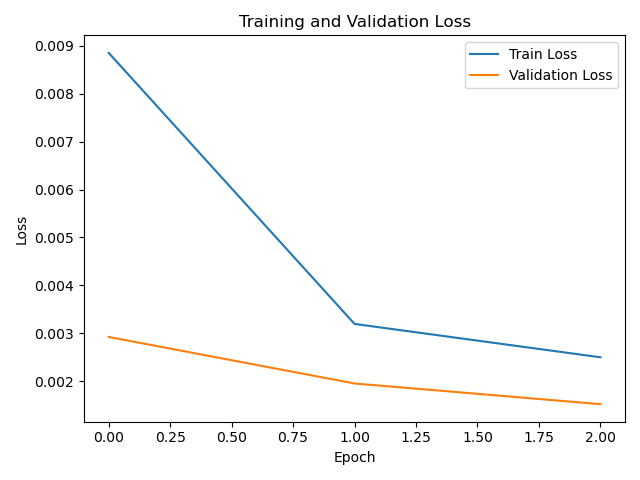
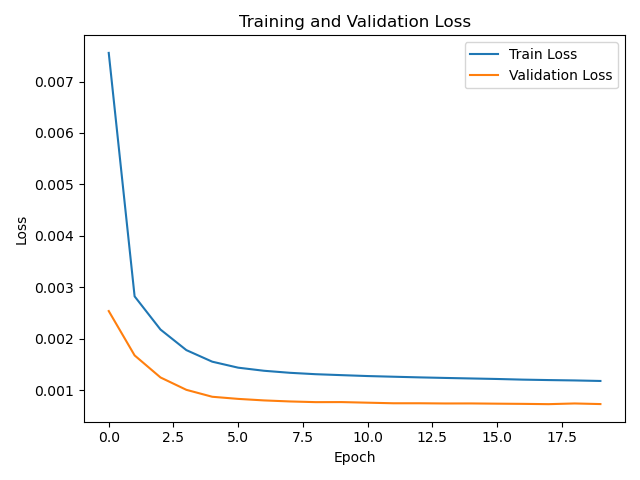
General cleaning: - Added Path to file paths - Adjusted self.configs in DataPipeline - Commented save results out

diff --git a/pipeline.py b/pipeline.py
@@ -2,6 +2,7 @@ from __future__ import annotations
 
 import logging
 import warnings
+from pathlib import Path
 
 from torch.utils.data import DataLoader
 from torchvision.transforms import Compose
@@ -31,13 +32,13 @@ class DataPipeline:
     def __init__(self, config):
         self.config = config
         self.data_paths = config['data_paths']
-        self.input_var = self.config['input_variable']
-        self.window_size = self.config['window_size']
-        self.batch_size = self.config['batch_size']
+        self.input_var = config['input_variable']
+        self.window_size = config['window_size']
+        self.batch_size = config['batch_size']
 
-        self.raw_loader = RawDataLoader(self.config)
-        self.processor = Processor(self.config)
-        self.feature_builder = BuildFeatures(self.config)
+        self.raw_loader = RawDataLoader(config)
+        self.processor = Processor(config)
+        self.feature_builder = BuildFeatures(config)
         self.loader = FileLoader()
         self.saver = FileSaver()
         self.params = ModelParams()
@@ -45,7 +46,7 @@ class DataPipeline:
 
     def run_load_data(self):
         self.raw_loader.load_data()
-        df1, df2, df3, df4 = self.raw_loader.get_data()
+        df1, df2, _, _ = self.raw_loader.get_data()
         return df1, df2
 
     def run_process_data(self, df1, df2, save=False):
@@ -53,7 +54,7 @@ class DataPipeline:
         df = self.feature_builder.build_features(df)
         df = self.processor.further_process(df)
         if save:
-            self.saver.save_file(df, self.config['processed_data'])
+            self.saver.save_file(df, Path(self.config['processed_data']))
         train_df, val_df, test_df = self.processor.split_data(
             df, self.input_var)
         return train_df, val_df, test_df
@@ -99,16 +100,14 @@ class DataPipeline:
             model, train_loader, val_loader, self.params)
 
         scaler = MinMaxScaler(mins, maxs)
-        x_train, x_train_preds = predict(
-            model, train_loader, scaler, self.params)
         x_test, x_test_preds = predict(model, test_loader, scaler, self.params)
 
         self.logger.info(
             'Model Evaluation ----------------------------------------------------------'
         )
-        save_model_summary(self.config, model)
+        save_model_summary(config, model)
 
-        anomalies, test_mae_loss, test_errors = evaluations(
+        anomalies, test_mae_loss, _ = evaluations(
             x_test, x_test_preds)
 
         eval_plot = ResultsVisuals(x_test, x_test_preds)

diff --git a/test.py b/test.py
@@ -32,15 +32,15 @@ warnings.filterwarnings("ignore")
 
 class DataPipeline:
     def __init__(self, config):
-        self.config = config
+        # self.config = config
         self.data_paths = config['data_paths']
-        self.input_var = self.config['input_variable']
-        self.window_size = self.config['window_size']
-        self.batch_size = self.config['batch_size']
+        self.input_var = config['input_variable']
+        self.window_size = config['window_size']
+        self.batch_size = config['batch_size']
 
-        self.raw_loader = RawDataLoader(self.config)
-        self.processor = Processor(self.config)
-        self.feature_builder = BuildFeatures(self.config)
+        self.raw_loader = RawDataLoader(config)
+        self.processor = Processor(config)
+        self.feature_builder = BuildFeatures(config)
         self.loader = FileLoader()
         self.saver = FileSaver()
         self.params = ModelParams()
@@ -98,8 +98,7 @@ class DataPipeline:
         self.logger.info(
             'Model Evaluation ------------------------------------------------'
         )
-        # with open(self.config['summary_path'], 'w', encoding='utf-8') as f:
-        #     print(summary(model, (1, 1, self.window_size)), file=f)
+
         anomalies, test_mae_loss, test_errors = evaluations(
             x_test, x_test_preds)
 

diff --git a/src/visualization/results_visuals.py b/src/visualization/results_visuals.py
@@ -18,7 +18,7 @@ class ResultsVisuals:
         plt.xlabel('Time')
         plt.ylabel('Temperature')
         plt.tight_layout()
-        plt.savefig('reports/figures/results/reconstruction.png')
+        # plt.savefig('reports/figures/results/reconstruction.png')
         plt.show()
 
     def plot_losses(self, train_loss: dict, val_loss: dict):
@@ -30,7 +30,7 @@ class ResultsVisuals:
         plt.xlabel('Epoch')
         plt.ylabel('Loss')
         plt.tight_layout()
-        plt.savefig('reports/figures/results/loss.png')
+        # plt.savefig('reports/figures/results/loss.png')
         plt.show()
 
     def plot_anomalies(self, anomalies):
@@ -50,7 +50,7 @@ class ResultsVisuals:
         plt.xlabel('Time')
         plt.ylabel('Temperature')
         plt.tight_layout()
-        plt.savefig('reports/figures/results/anomalies.png')
+        # plt.savefig('reports/figures/results/anomalies.png')
         plt.show()
 
     def plot_mae_loss(self, test_mae_loss: np.array):
@@ -59,7 +59,7 @@ class ResultsVisuals:
         plt.xlabel("Test MAE loss")
         plt.ylabel("No of samples")
         plt.tight_layout()
-        plt.savefig('reports/figures/results/mae_loss.png')
+        # plt.savefig('reports/figures/results/mae_loss.png')
         plt.show()
 
     def eval_plotting(self, train_loss, val_loss, test_mae_loss, anomalies):

diff --git a/utils/my_utils.py b/utils/my_utils.py
@@ -3,6 +3,7 @@ from __future__ import annotations
 import json
 import os
 from datetime import datetime
+from pathlib import Path
 
 import pandas as pd
 from torchinfo import summary
@@ -37,7 +38,7 @@ def n_nans(df):
 
 
 def save_model_results(config, opt_name, params, run_results: dict):
-    results_path = config['results_path']
+    results_path = Path(config['results_path'])
     results = []
 
     if os.path.exists(results_path):
@@ -59,5 +60,5 @@ def save_model_results(config, opt_name, params, run_results: dict):
 
 
 def save_model_summary(config, model):
-    with open(config['summary_path'], 'w', encoding='utf-8') as f:
+    with open(Path(config['summary_path']), 'w', encoding='utf-8') as f:
         print(summary(model, (1, 1, config['window_size'])), file=f)

diff --git a/src/models/model_params.py b/src/models/model_params.py
@@ -10,7 +10,7 @@ device = torch.device("cuda" if torch.cuda.is_available() else "cpu")
 @dataclass
 class ModelParams:
     device: str = device
-    epochs: int = 3
+    epochs: int = 20
     input_dim: int = 365
     latent_dims: int = 128
     lr: float = 1e-4
